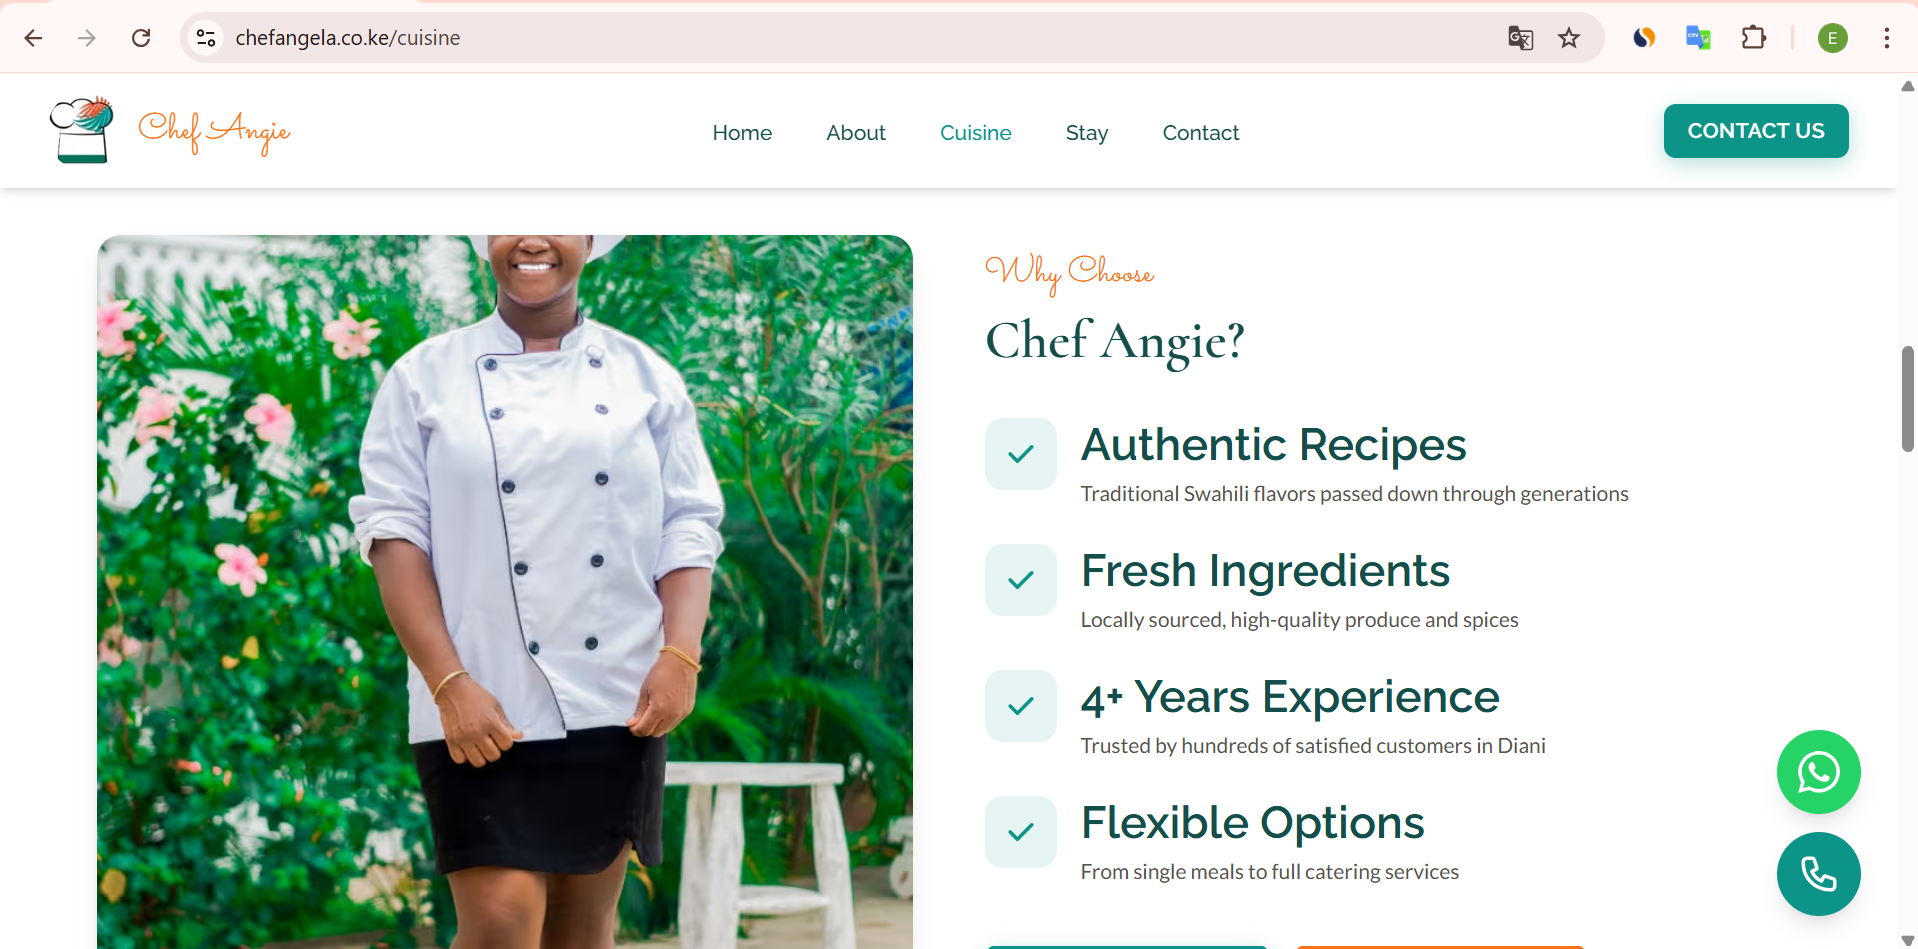
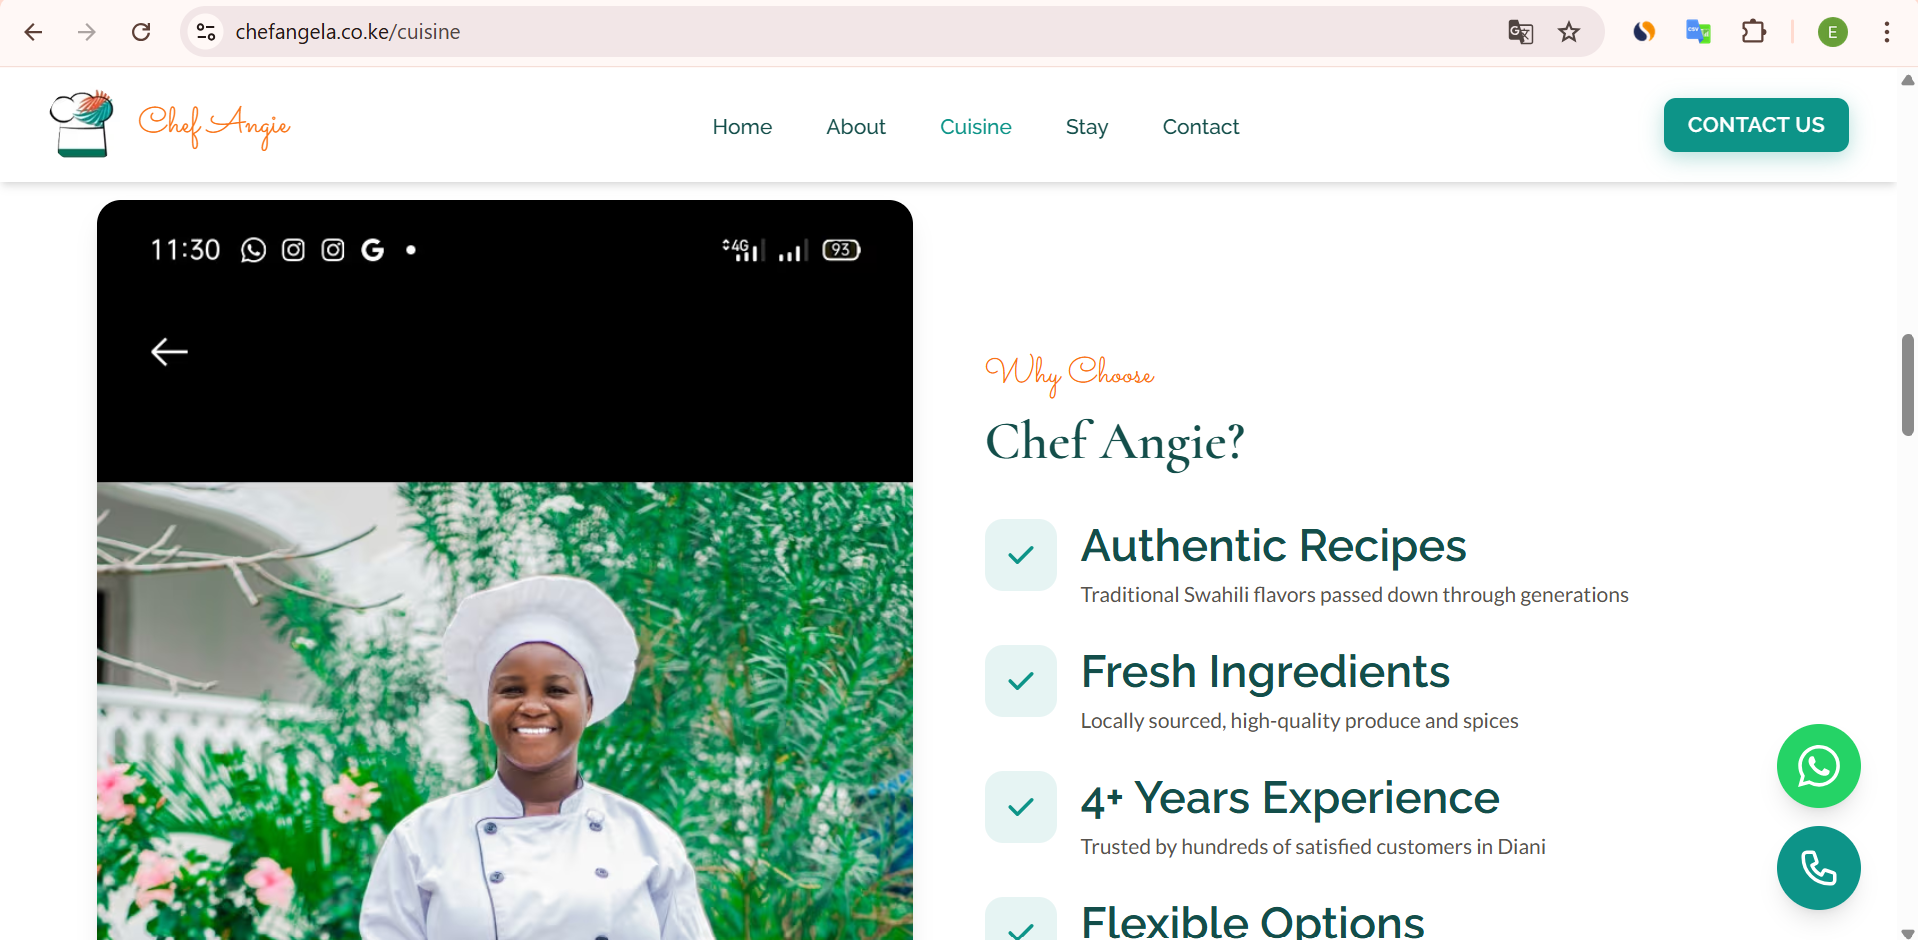
fix: hide phone status bar in chef photo

diff --git a/src/app/cuisine/page.tsx b/src/app/cuisine/page.tsx
@@ -177,7 +177,7 @@ export default function CuisinePage() {
                 src="/images/chef/profile.jpg"
                 alt="Chef Angie preparing traditional cuisine"
                 fill
-                className="object-cover object-top"
+                className="object-cover object-[center_20%]"
               />
             </div>
 
